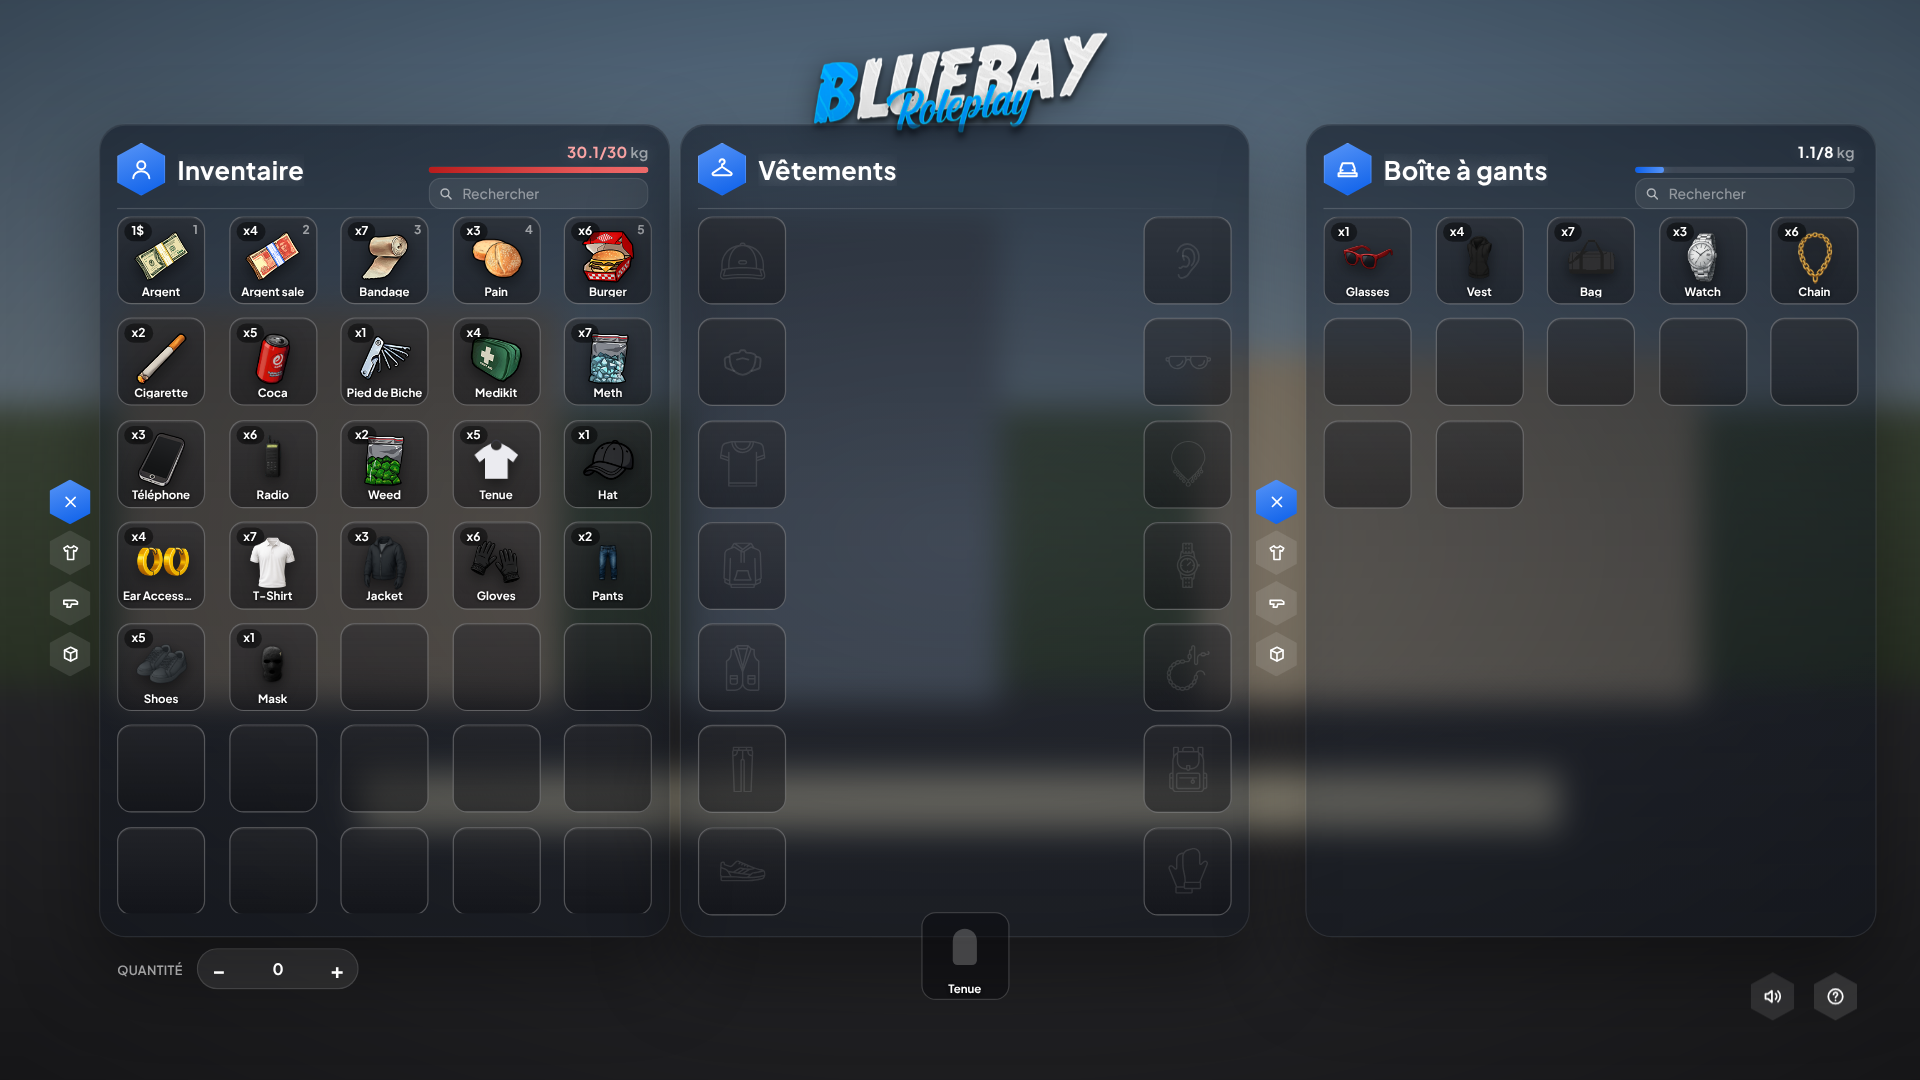
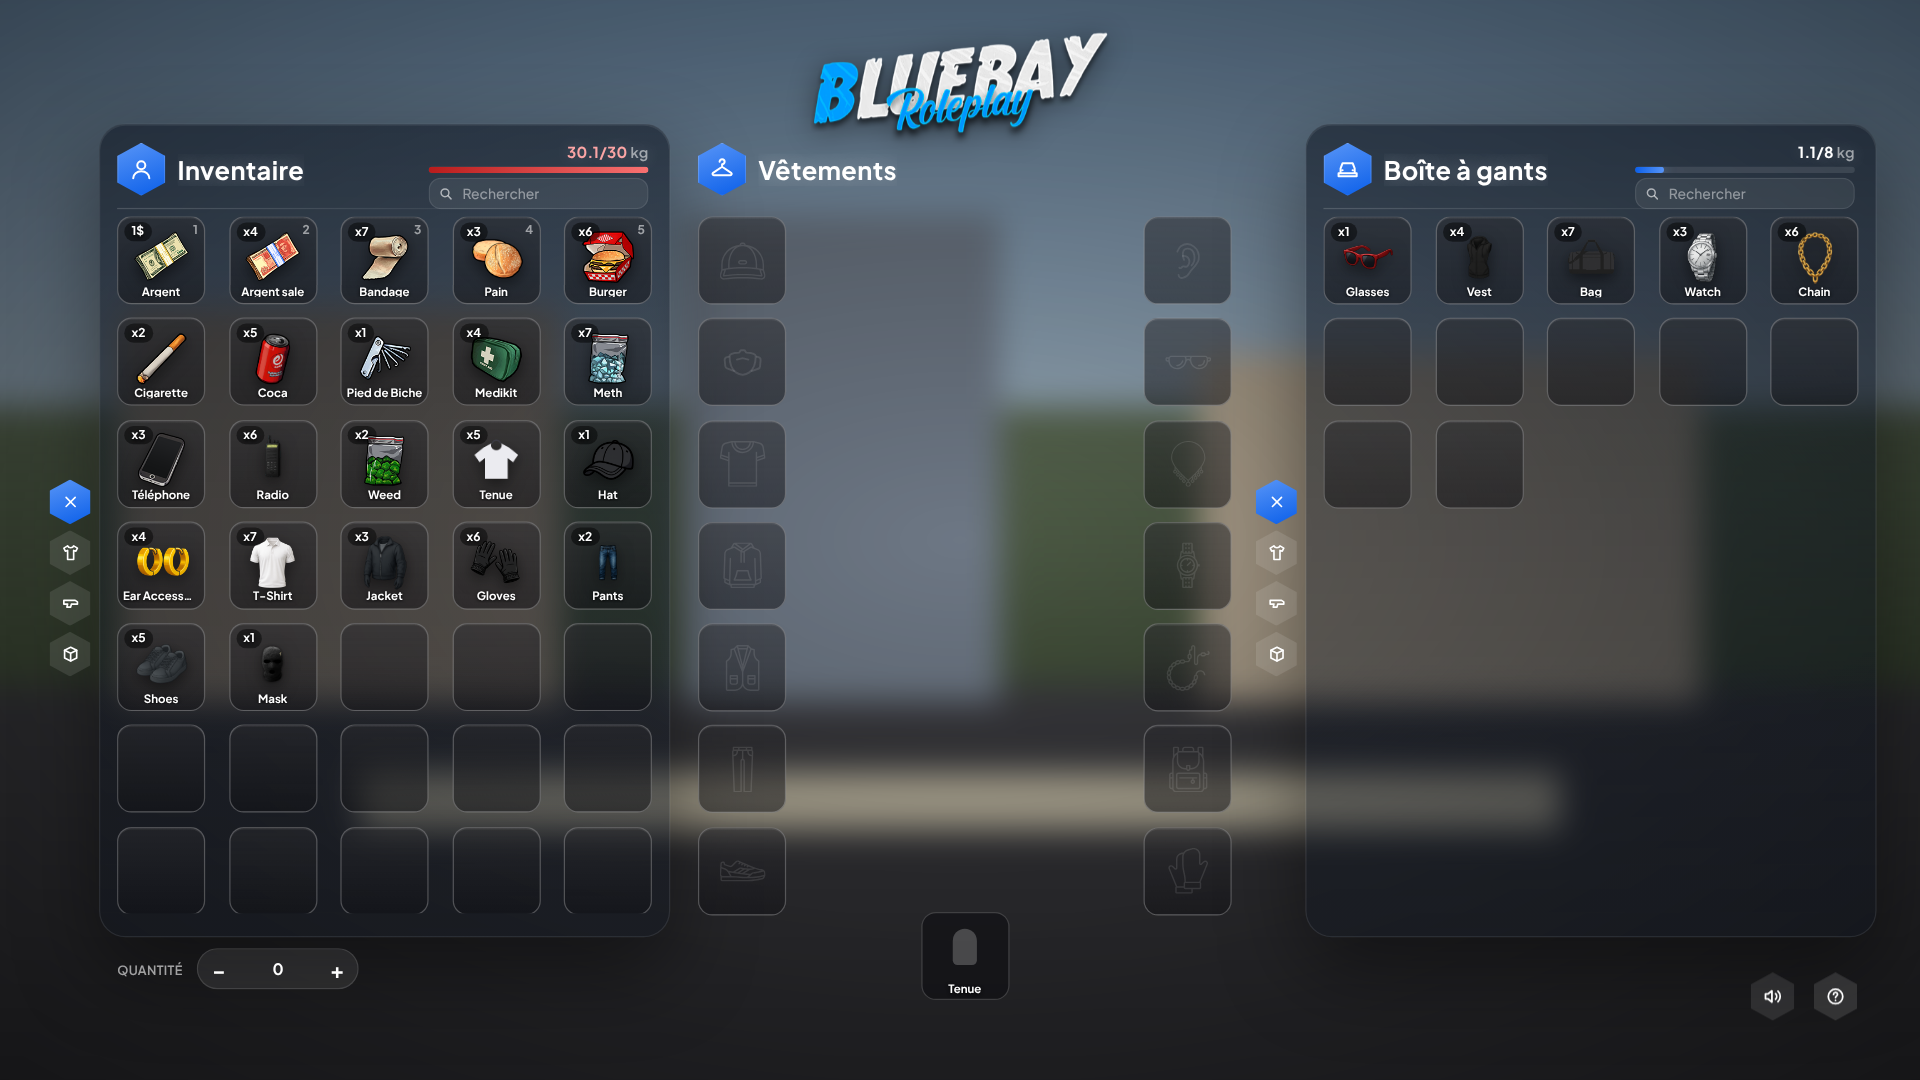
Inventaire : retire le rectangle semi-transparent derrière les vêtements
Claude-Session: https://claude.ai/code/session_01T3Qi8D5NidPuELfjgkR2RY

diff --git a/resources/[inventaire]/ox_inventory/web/build/assets/ui-refonte.css b/resources/[inventaire]/ox_inventory/web/build/assets/ui-refonte.css
@@ -17,6 +17,8 @@
   border: 1px solid rgba(255, 255, 255, .09);
   box-shadow: 0 28px 70px rgba(0, 0, 0, .42), inset 0 1px 0 rgba(255, 255, 255, .07);
 }
+.panel.center::before { display: none; }   /* pas de rectangle derrière les vêtements : le personnage reste bien visible */
+.panel.center .panel-head::after { display: none; }
 .panel-head::after { content: ''; position: absolute; left: 0; right: 0; bottom: 6px; height: 1px; background: linear-gradient(90deg, rgba(255, 255, 255, .16), rgba(255, 255, 255, 0)); pointer-events: none; }
 .panel-title h2 { letter-spacing: .3px; }
 .hex { box-shadow: inset 0 0 0 1px rgba(255, 255, 255, .18), 0 6px 18px rgba(var(--accent-rgb), .35); }
